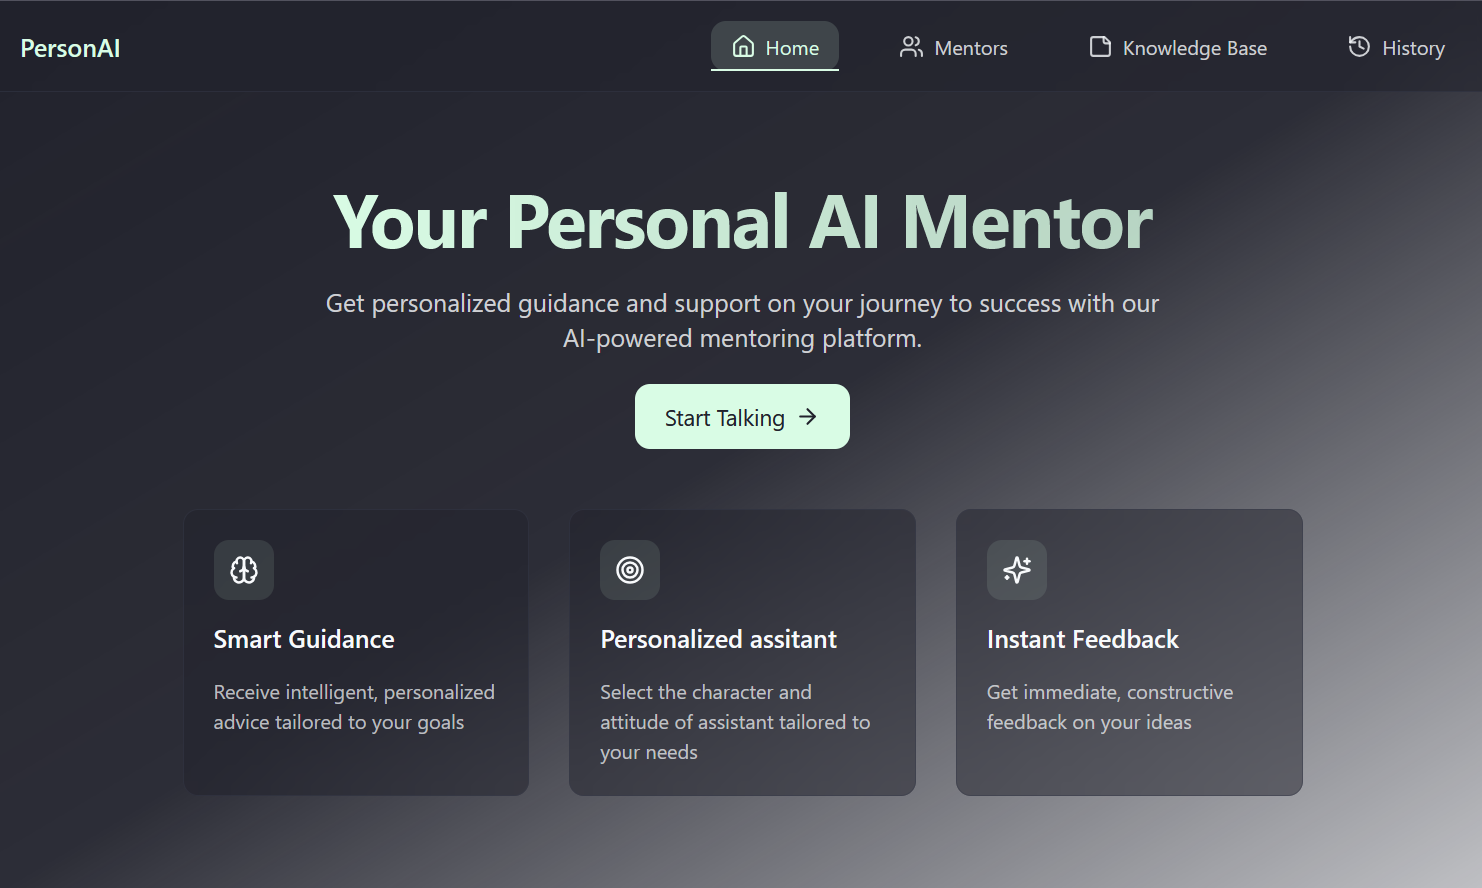
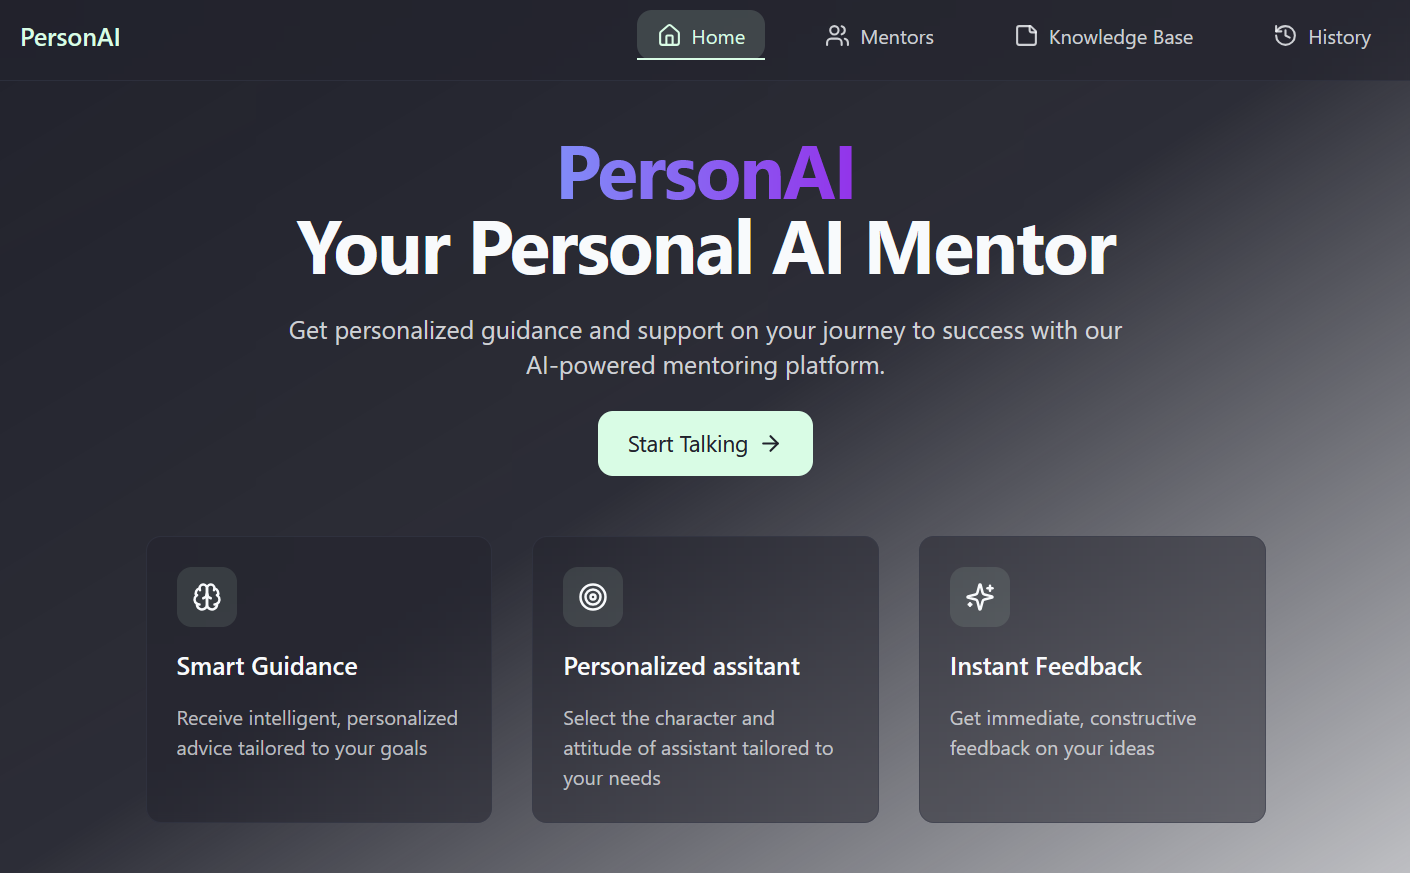
UI fixes 2

diff --git a/src/pages/Index.tsx b/src/pages/Index.tsx
@@ -1,4 +1,3 @@
-
 import React, { useEffect } from 'react';
 import { motion } from "framer-motion";
 import { ArrowRight, Brain, Sparkles, Target } from "lucide-react";
@@ -13,8 +12,11 @@ const Index = () => {
         transition={{ duration: 0.5 }}
         className="text-center space-y-6"
       >
-        <h1 className="text-4xl md:text-6xl font-bold tracking-tight gradient-heading">
-          <span className="text-indigo-400">PersonAI </span><br/>
+        <h1 className="text-4xl md:text-6xl font-bold tracking-tight">
+          <span className="bg-gradient-to-r from-indigo-400 to-purple-600 bg-clip-text text-transparent">
+            PersonAI
+          </span>
+          <br/>
           Your Personal AI Mentor
         </h1>
         <p className="text-lg md:text-xl text-foreground/80 max-w-2xl">
